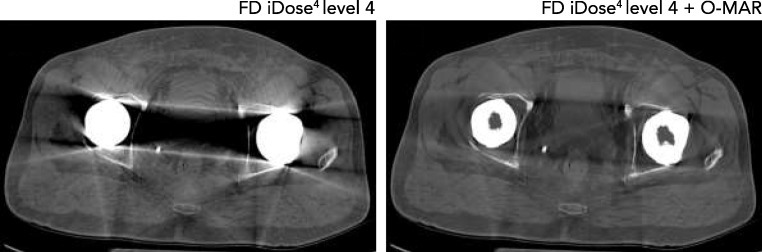
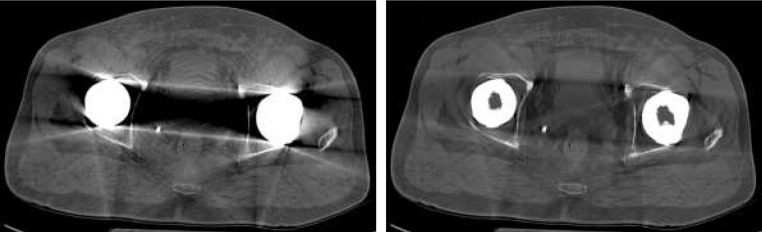
README: Promote clinical MAR figure above title, tighten crop and caption
Move the Wellenberg 2019 figure to the very top of the README (above the
project title) to lead with the visual motivation. Re-crop the image to
drop the "FD iDose^4 level 4" / "FD iDose^4 level 4 + O-MAR" header band
and the encircled (a)/(b) panel letters for a cleaner before/after.
Reduce caption to description + attribution + license; remove the
subtitle and the statement-of-purpose line.

diff --git a/README.md b/README.md
@@ -1,3 +1,7 @@
+![Axial pelvic CT of a patient with bilateral metal-on-metal total hip arthroplasties, before and after orthopaedic metal artefact reduction.](docs_and_references/images/wellenberg_2019_fig8_ab.jpg)
+
+*Axial pelvic CT of a patient with bilateral metal-on-metal total hip arthroplasties. Figure reproduced from Wellenberg RHH, van Osch JAC, Boelhouwers HJ, Edens MA, Streekstra GJ, Ettema HB, Boomsma MF. "CT radiation dose reduction in patients with total hip arthroplasties using model-based iterative reconstruction and orthopaedic metal artefact reduction." Skeletal Radiology 48(11):1775–1785 (2019), [doi:10.1007/s00256-019-03206-z](https://doi.org/10.1007/s00256-019-03206-z). Licensed under [CC BY 4.0](https://creativecommons.org/licenses/by/4.0/). Cropped to panels (a) and (b) of original Figure 8; panel letter overlays removed.*
+
 # MAR ILS Dataset Generator & Evaluation Framework
 
 ![License: Apache 2.0](https://img.shields.io/badge/License-Apache%202.0-blue.svg)
@@ -14,14 +18,6 @@ This is the **reference evaluation framework** for conducting standardized **Int
 2.  **Reference MAR Algorithms:** Implementations of iMAR, MBIR, and Dual-Energy Spectral MAR.
 3.  **Objective Statistical Scoring:** Quantifying lesion detectability ($\Delta AUC$) using a **Channelized Hotelling Observer (CHO)** with normative internal noise ($\sigma=15$).
 4.  **AI-Native Diagnostics:** Integrated **Model Context Protocol (MCP)** servers for automated data auditing and visualization.
-
-### What MAR Does (Clinical Example)
-
-![Clinical example of metal artifact reduction on bilateral total hip arthroplasty: standard iterative reconstruction vs. the same acquisition with orthopaedic MAR applied.](docs_and_references/images/wellenberg_2019_fig8_ab.jpg)
-
-*Axial pelvic CT of a patient with bilateral metal-on-metal total hip arthroplasties. **Left:** standard iterative reconstruction (iDose⁴) showing severe photon-starvation streaks and signal loss between prostheses. **Right:** same acquisition with orthopaedic MAR (O-MAR) applied — streaks are largely resolved and pelvic soft tissue becomes assessable. Figure reproduced from Wellenberg RHH, van Osch JAC, Boelhouwers HJ, Edens MA, Streekstra GJ, Ettema HB, Boomsma MF. "CT radiation dose reduction in patients with total hip arthroplasties using model-based iterative reconstruction and orthopaedic metal artefact reduction." Skeletal Radiology 48(11):1775–1785 (2019), [doi:10.1007/s00256-019-03206-z](https://doi.org/10.1007/s00256-019-03206-z). Licensed under [CC BY 4.0](https://creativecommons.org/licenses/by/4.0/). Cropped to panels (a) and (b) of original Figure 8; panel letter overlays removed.*
-
-The purpose of this framework is to **quantify** that visual impression — to measure, reproducibly and across laboratories, how much a MAR algorithm actually changes a radiologist's ability to detect small low-contrast lesions near metal.
 
 ---
 